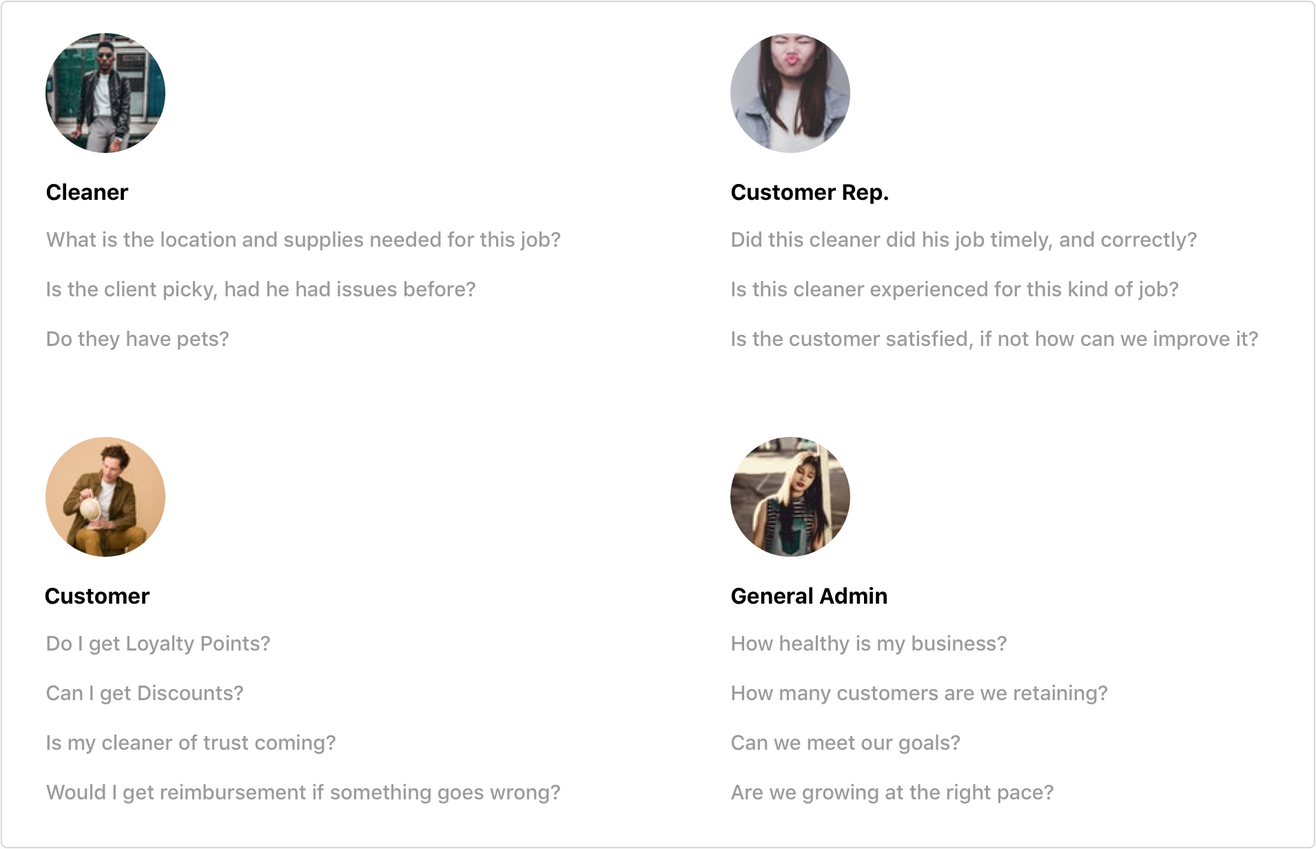
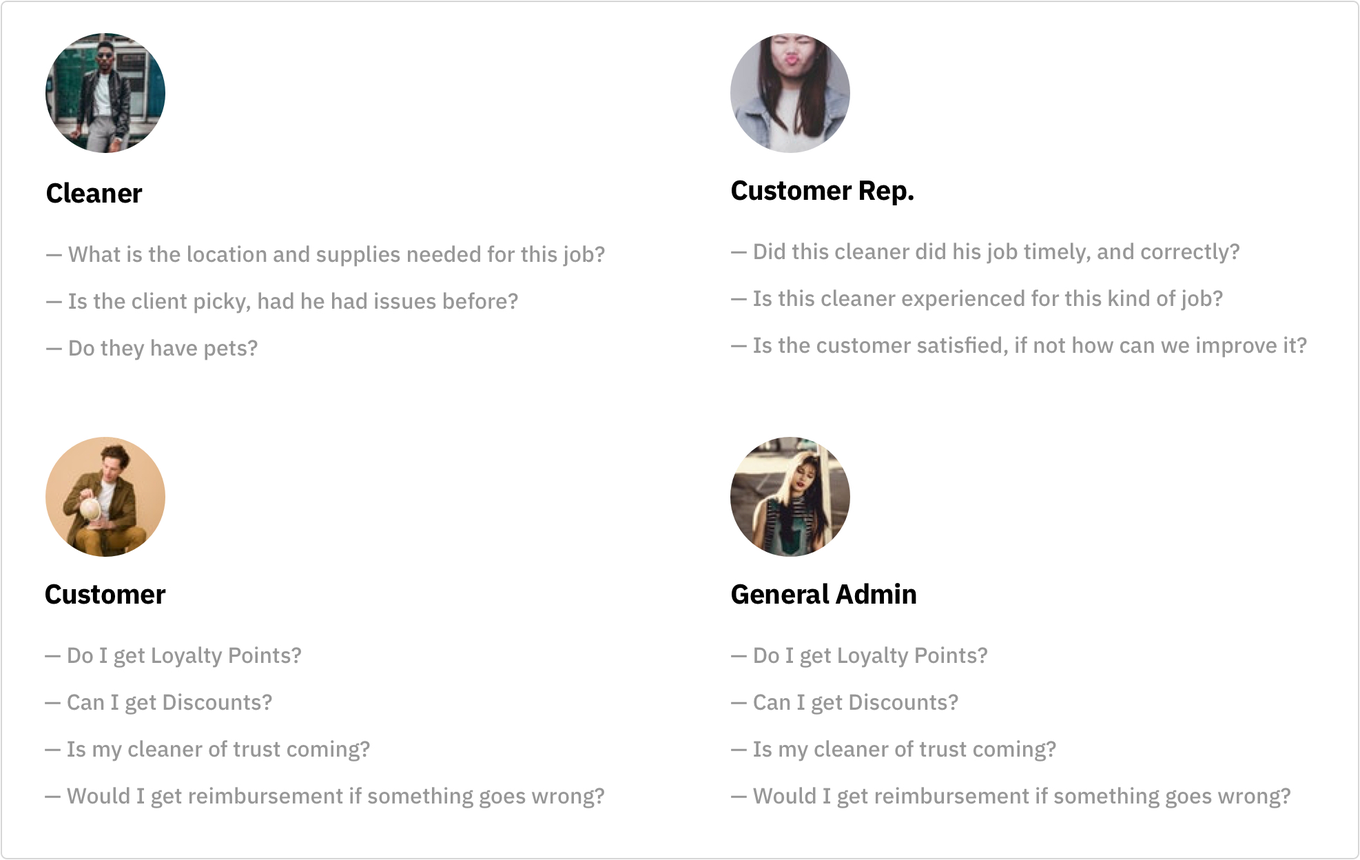
asdas

diff --git a/_includes/cleancrm.html b/_includes/cleancrm.html
@@ -1,2 +1,2 @@
 <section role="main" class="margin-bottom-75"><div class="container"><div class="row"><div class="col-md-8 col-md-offset-3 col-sx-12"><div class="intro-text"><h1 class="work-sans title intro-title color-0">Clean CRM</h1></div><p>Management product for cleaning service companies. Smoothly administrating all the customers, bookings, quotes and employees on a cleaning service company.</p></div></div></div></section><article role="article" class="no-margin-bottom margin-top-50"><div class="container"><div class="row"><div class="col-xs-12 col-md-12"><img src="/img/work/cleancrm/crm-header.jpg" alt="intro crm" class="no-margin-bottom"/></div></div></div></article><article role="article" class="no-margin-top"><hr/><div class="container margin-top-25"><div class="row"><div class="col-md-3"><div class="row"><p></p><div class="col-xs-3"><h2 class="section-description muted no-margin">Name</h2></div><div class="col-xs-6"><h2 class="section-description no-margin">Clean CRM</h2></div></div><div class="row"><div class="col-xs-3"><h2 class="section-description muted no-margin">Year</h2></div><div class="col-xs-6"><h2 class="section-description no-margin">2016 — 2017</h2></div></div><div class="row"><div class="col-xs-3"><h2 class="section-description muted no-margin">Role</h2></div><div class="col-xs-6"><h2 class="section-description no-margin">Designer</h2></div></div><div class="row"><div class="col-xs-3"><h2 class="section-description muted no-margin">Time</h2></div><div class="col-xs-6"><h2 class="section-description no-margin">8 weeks</h2></div></div></div><div class="col-md-8"><p> </p><p>I partnered up with an NYC Cleaning Service company wanting to automate their services. They had a non-functioning MVP and a clear goal before reaching out. </p><p> The application that they were using previously failed to adapt to the increasingly complex demands of new features to support a growing cleaning service company. </p></div></div></div></article>
-<article role="article" class="no-margin margin-top-25"><hr/><div class="container margin-top-25"><div class="row"><div class="col-md-3"><h2 class="section-title margin-bottom-25">COMPETITIVE RESEARCH</h2></div><div class="col-md-8"><p></p><p>It is essential to look into other players on the market and understand the products that we are going to compete. We have two main categories in the direct competition, software companies who offer the service and other traditional cleaning service companies.</p><p>In the end, we agreed on creating a Saas Product to spread the business goals offering a CRM tool for small-medium size cleaning service companies.</p><h2></h2><p>Metrics for the competitive analysis:</p><p>• User goals and product goals</p><p>• Areas and locations of service</p><p>• Customer retention & opinions</p><p>• Marketing investment</p><div class="row"><div class="col-xs-6 col-md-3 center"><img src="/img/work/cleancrm/logo-1.jpg" alt="competitors"/></div><div class="col-xs-6 col-md-3 center"><img src="/img/work/cleancrm/logo-2.jpg" alt="competitors"/></div><div class="col-xs-6 col-md-3"><img src="/img/work/cleancrm/logo-3.jpg" alt="competitors"/></div><div class="col-xs-6 col-md-3"><img src="/img/work/cleancrm/logo-4.jpg" alt="competitors"/></div></div></div><div class="row"><div class="col-md-9 col-md-offset-3 col-sx-12"><img src="/img/work/cleancrm/gmaps-competition2.jpg" alt="competitors" class="shadow-1"/></div></div></div></div></article><article role="article" class="margin-top-25"><hr/><div class="container margin-top-25"><div class="row"><div class="col-md-3"><h2 class="section-title">Persona Development</h2></div><div class="col-md-8"><p></p><p>To test our ideas and hypothesis, we asked employees what their pain points were. Testing helped understand possible scenarios and to see which functions could be useful.</p><p>We also created profiles of the customers and their needs and goals, even though they are not using the application. Having a perspective of their goals is what is going to drive us to make a useful product.</p><p class="margin-bottom-75"></p><div class="row margin-top-75"><div class="col-xs-12 col-md-9 margin-bottom-25"><img src="/img/work/cleancrm/pp1.jpg" alt="person cleaner" class="mw-15 no-margin"/><h3 class="f1 lh-1 work-sans">Cleaner</h3><p class="f1 lh-1 color-1">— What is the location and supplies needed?  </p><p class="f1 lh-1 color-1">— Is the client picky, had he had issues before?</p><p class="f1 lh-1 color-1">—   Do they have pets?</p><h3> </h3></div><div class="col-xs-12 col-md-9 margin-bottom-25"><img src="/img/work/cleancrm/pp2.jpg" alt="person cleaner" class="mw-15 no-margin"/><h3 class="f1 lh-1 work-sans">Customer Rep.</h3><p class="f1 lh-1 color-1">— Did this cleaner did his job timely? </p><p class="f1 lh-1 color-1">— Is this cleaner experienced for this kind of job?</p><p class="f1 lh-1 color-1">— Is the customer satisfied, if not how can we improve it?</p><h3></h3></div><div class="col-xs-12 col-md-9 margin-bottom-25"><img src="/img/work/cleancrm/pp3.jpg" alt="person cleaner" class="mw-15 no-margin"/><h3 class="f1 lh-1 work-sans">Customer</h3><p class="f1 lh-1 color-1">— Do I get Loyalty Points?  </p><p class="f1 lh-1 color-1">— Is my cleaner of trust coming?</p><p class="f1 lh-1 color-1">—  Would I get reimbursement if something goes wrong?</p><h3></h3></div><div class="col-xs-12 col-md-9 margin-bottom-25"><img src="/img/work/cleancrm/pp4.jpg" alt="person cleaner" class="mw-15 no-margin"/><h3 class="f1 lh-1 work-sans">General Admin</h3><p class="f1 lh-1 color-1">— How healthy is my business?</p><p class="f1 lh-1 color-1">—   How many customers are we retaining?</p><p class="f1 lh-1 color-1">—   Can we meet our goals?</p><h3></h3></div></div><div class="row margin-top-75"><div class="col-xs-12 col-md-12 margin-bottom-25"><img src="/img/work/cleancrm/persona-2.jpg" alt="person cleaner" class="no-margin"/></div></div></div></div></div></article><article role="article" class="margin-top-25"><hr/><div class="container margin-top-25"><div class="row"><div class="col-md-3"><h2 class="section-title">User Task Flow</h2></div><div class="col-md-9"><p></p><p>Task flows helped us to think through the design before a feature is actually developed. It helped us to interject the user into the flow model of the application to determine if it matches conceptually with what we need.</p><div class="margin-top-25"><div class="row"><div class="col-xs-12 col-md-12"><img src="/img/work/cleancrm/user-flow-separated.jpg" alt="user task flow"/></div></div></div></div></div></div></article><article role="article"><hr/><div class="container margin-top-25"><div class="row"><div class="col-md-3"><h2 class="section-title">SCOPE</h2></div><div class="col-md-9"><p></p><p>As a small company, time and budget require fast turnaround and control. I worked closely with developers from different parts of the world to bring the platform to life. For that, we needed to manage time and constraints, Manage time and scope is harder than it sounds. We kept spreadsheets of flows and features and Trello boards of the needs and sprints of work.</p><p>List of screens from screen map:</p><p>• Specify features for each screen</p><p>• Assign priorities Must-have (First release) Nice to have (Next Release)</p><p>• Fill in development time estimates</p><div class="margin-top-25"><div class="row"><div class="col-xs-12 col-md-12"><img src="/img/work/cleancrm/scope-2.jpg" alt="Scope spreadsheet" class="shadow-1"/></div></div></div></div></div></div></article><article role="article" class="margin-top-25"><hr/><div class="container margin-top-25"><div class="row"><div class="col-md-3"><h2 class="section-title">SCREEN MAPPING</h2></div><div class="col-md-9"><p></p><p>Having a whole view of all screens and screen states helps to manage and have everything tidy and organized for next iterations. For that, I use tools like MindNode since is faster and everyone can contribute.</p><p>We tried to keep this document alive by keeping it in sync with the Scope of the application and the number of features they represent.</p><div class="margin-top-25"><div class="row"><div class="col-xs-12 col-md-12"><img src="/img/work/cleancrm/screen-map-2.jpg" alt="screen maps"/></div></div></div></div></div></div></article><article role="article"><hr/><div class="container margin-top-25"><div class="row"><div class="col-md-3"><h2 class="section-title">GRID SYSTEM</h2></div><div class="col-md-9"><p></p><p>A consistent grid helps designers layout UI quickly and consistently and consequently developers to create components the same way. I used an 8pt soft grid based on Android Material, scaling spaces and components from 4, 8, 16, 24 and alike. Also using a column and height grid to keep a visual rhythm into the application.</p><div class="margin-top-25"><div class="row"><div class="col-xs-12 col-md-8"> <svg xmlns="http://www.w3.org/2000/svg" width="393" height="229" viewbox="0 0 393 229"><g fill="none" fill-rule="evenodd" transform="translate(0 -1)"></g><g fill="#FF9797" transform="translate(0 2)"><rect width="272.454" height="85" x=".546" fill-opacity=".495" opacity=".2"></rect><rect width="272.454" height="85" x=".546" fill-opacity=".495" opacity=".2"></rect><rect width="14.742" height="85" fill-opacity=".75"></rect><rect width="14.742" height="85" x="23.478" fill-opacity=".495"></rect><rect width="14.742" height="85" x="46.956" fill-opacity=".495"></rect><rect width="14.742" height="85" x="70.434" fill-opacity=".495"></rect><rect width="14.742" height="85" x="93.912" fill-opacity=".495"></rect><rect width="14.742" height="85" x="117.39" fill-opacity=".495"></rect><rect width="14.742" height="85" x="140.868" fill-opacity=".495"></rect><rect width="14.742" height="85" x="164.346" fill-opacity=".495"></rect><rect width="14.742" height="85" x="187.824" fill-opacity=".495"></rect><rect width="14.742" height="85" x="211.302" fill-opacity=".495"></rect><rect width="14.742" height="85" x="234.78" fill-opacity=".495"></rect><rect width="14.742" height="85" x="258.258" fill-opacity=".75"></rect></g><g fill="#FF9797" transform="translate(0 115)"><rect width="198.602" height="52" x=".398" fill-opacity=".495" opacity=".2"></rect><rect width="198.602" height="52" x=".398" fill-opacity=".495" opacity=".2"></rect><rect width="10.746" height="52" fill-opacity=".75"></rect><rect width="10.746" height="52" x="17.114" fill-opacity=".495"></rect><rect width="10.746" height="52" x="34.228" fill-opacity=".495"></rect><rect width="10.746" height="52" x="51.342" fill-opacity=".495"></rect><rect width="10.746" height="52" x="68.456" fill-opacity=".495"></rect><rect width="10.746" height="52" x="85.57" fill-opacity=".495"></rect><rect width="10.746" height="52" x="102.684" fill-opacity=".495"></rect><rect width="10.746" height="52" x="119.798" fill-opacity=".495"></rect><rect width="10.746" height="52" x="136.912" fill-opacity=".495"></rect><rect width="10.746" height="52" x="154.026" fill-opacity=".495"></rect><rect width="10.746" height="52" x="171.14" fill-opacity=".495"></rect><rect width="10.746" height="52" x="188.254" fill-opacity=".75"></rect></g><g font-size="7.84" transform="translate(290)"><g transform="translate(1 61.57)"><text fill="#15101C" fill-opacity=".5" font-family="HelveticaNeue, Helvetica Neue"><tspan x="46.439" y="7.56">24px</tspan></text><text fill="#475066" font-family="HelveticaNeue-Medium, Helvetica Neue" font-weight="400" letter-spacing=".493"><tspan x=".471" y="8">GUTTER</tspan><tspan x="34.796" y="8">:</tspan></text></g><g transform="translate(0 46.177)"><text fill="#15101C" fill-opacity=".5" font-family="HelveticaNeue, Helvetica Neue"><tspan x="85.519" y="7">70px</tspan></text><text fill="#475066" font-family="HelveticaNeue-Medium, Helvetica Neue" font-weight="400" letter-spacing=".493"><tspan x=".914" y="8">COLUMNS WIDTH</tspan><tspan x="74.541" y="8">:</tspan></text></g><g transform="translate(1 30.785)"><text fill="#15101C" fill-opacity=".5" font-family="HelveticaNeue, Helvetica Neue"><tspan x="54.727" y="7.56">12</tspan></text><text fill="#475066" font-family="HelveticaNeue-Medium, Helvetica Neue" font-weight="400" letter-spacing=".493"><tspan x=".343" y="8">COLUMNS</tspan><tspan x="43.283" y="8">:</tspan></text></g><g transform="translate(1)"><text fill="#475066" font-family="HelveticaNeue-Medium, Helvetica Neue" font-weight="400" letter-spacing=".493"><tspan x=".143" y="8">TOTAL WIDTH</tspan><tspan x="57.559" y="8">:</tspan></text><text fill="#15101C" fill-opacity=".5" font-family="HelveticaNeue, Helvetica Neue"><tspan x="68.614" y="7">1920px</tspan></text></g><g transform="translate(1 15.392)"><text fill="#15101C" fill-opacity=".5" font-family="HelveticaNeue, Helvetica Neue"><tspan x="44.807" y="7">40px</tspan></text><text fill="#475066" font-family="HelveticaNeue-Medium, Helvetica Neue" font-weight="400" letter-spacing=".493"><tspan x=".486" y="8">OFFSET</tspan><tspan x="33.368" y="8">:</tspan></text></g></g><g font-size="7.84" transform="translate(216 114)"><g transform="translate(1 40.078)"><text fill="#15101C" fill-opacity=".5" font-family="HelveticaNeue, Helvetica Neue"><tspan x="46.496" y="7.59">5px</tspan></text><text fill="#475066" font-family="HelveticaNeue-Medium, Helvetica Neue" font-weight="400" letter-spacing=".493"><tspan x=".471" y="8.03">GUTTER</tspan><tspan x="34.796" y="8.03">:</tspan></text></g><g transform="translate(0 26.902)"><text fill="#15101C" fill-opacity=".5" font-family="HelveticaNeue, Helvetica Neue"><tspan x="85.519" y="7.027">50px</tspan></text><text fill="#475066" font-family="HelveticaNeue-Medium, Helvetica Neue" font-weight="400" letter-spacing=".493"><tspan x=".914" y="8.03">COLUMNS WIDTH</tspan><tspan x="74.541" y="8.03">:</tspan></text></g><g transform="translate(1)"><text fill="#475066" font-family="HelveticaNeue-Medium, Helvetica Neue" font-weight="400" letter-spacing=".493"><tspan x=".143" y="8.03">TOTAL WIDTH</tspan><tspan x="57.559" y="8.03">:</tspan></text><text fill="#15101C" fill-opacity=".5" font-family="HelveticaNeue, Helvetica Neue"><tspan x="68.686" y="7.027">768px</tspan></text></g><g transform="translate(1 13.176)"><text fill="#15101C" fill-opacity=".5" font-family="HelveticaNeue, Helvetica Neue"><tspan x="44.864" y="7.027">0px</tspan></text><text fill="#475066" font-family="HelveticaNeue-Medium, Helvetica Neue" font-weight="400" letter-spacing=".493"><tspan x=".486" y="8.03">OFFSET</tspan><tspan x="33.368" y="8.03">:</tspan></text></g></g><g transform="translate(0 194)"><g fill="#FF9797" transform="translate(0 1.635)"><rect width="127.167" height="34.326" x=".255" fill-opacity=".495" opacity=".2"></rect><rect width="127.167" height="34.326" x=".255" fill-opacity=".495" opacity=".2"></rect><rect width="6.881" height="34.326" fill-opacity=".75"></rect><rect width="6.881" height="34.326" x="10.958" fill-opacity=".495"></rect><rect width="6.881" height="34.326" x="21.917" fill-opacity=".495"></rect><rect width="6.881" height="34.326" x="32.875" fill-opacity=".495"></rect><rect width="6.881" height="34.326" x="43.833" fill-opacity=".495"></rect><rect width="6.881" height="34.326" x="54.791" fill-opacity=".495"></rect><rect width="6.881" height="34.326" x="65.75" fill-opacity=".495"></rect><rect width="6.881" height="34.326" x="76.708" fill-opacity=".495"></rect><rect width="6.881" height="34.326" x="87.666" fill-opacity=".495"></rect><rect width="6.881" height="34.326" x="98.625" fill-opacity=".495"></rect><rect width="6.881" height="34.326" x="109.583" fill-opacity=".495"></rect><rect width="6.881" height="34.326" x="120.541" fill-opacity=".75"></rect></g><g font-size="7.84" transform="translate(145.562)"><g transform="translate(0 13.485)"><text fill="#15101C" fill-opacity=".5" font-family="HelveticaNeue, Helvetica Neue"><tspan x="85.008" y="7">22px</tspan></text><text fill="#475066" font-family="HelveticaNeue-Medium, Helvetica Neue" font-weight="400" letter-spacing=".493"><tspan x=".109" y="8">COLUMNS WIDTH</tspan><tspan x="73.736" y="8">:</tspan></text></g><g><text fill="#475066" font-family="HelveticaNeue-Medium, Helvetica Neue" font-weight="400" letter-spacing=".493"><tspan x=".297" y="8">TOTAL WIDTH</tspan><tspan x="57.713" y="8">:</tspan></text><text fill="#15101C" fill-opacity=".5" font-family="HelveticaNeue, Helvetica Neue"><tspan x="69.102" y="7">320px</tspan></text></g></g></g></svg></div><div class="col-xs-12 col-md-6"><img src="/img/work/cleancrm/guidelines.jpg" alt="grid interface"/></div><div class="col-xs-12 col-md-6"><img src="/img/work/cleancrm/screens-1.jpg" alt="screen sizes responsive"/></div></div></div></div></div></div></article><article role="article" class="margin-top-25"><hr/><div class="container margin-top-25"><div class="row"><div class="col-md-3"><h2 class="section-title">INTERACTIONS</h2></div><div class="col-md-9"><p></p><p>Managing all interactions across the application to create a seamless experience will make the product stand out.</p><div class="margin-top-25"><div class="row"><div class="col-xs-12 col-md-12"><img src="/img/work/cleancrm/modal-warning.jpg" alt="modal-warning"/></div><div class="col-xs-12 col-md-12"><img src="/img/work/cleancrm/edit-information.jpg" alt="modal-warning"/></div><div class="col-xs-12 col-md-12"><img src="/img/work/cleancrm/modals-2.jpg" alt="Modals"/></div></div></div></div></div></div></article><article role="article" class="margin-top-25"><hr/><div class="container margin-top-25"><div class="row"><div class="col-md-3"><h2 class="section-title">DESIGN LANGUAGE</h2></div><div class="col-md-9"><p></p><p>I helped introducing a new design lenguage to make their product easier to navigate and find information. I created a UI Library and design system to make it easier for designers and developers to continue the work after I leave so they can continue working on the platform without having to worry about getting off track.</p><div class="row"><div class="col-xs-12 col-md-12"><img src="/img/work/cleancrm/component-3.jpg" alt="component"/></div></div></div></div></div></article><article role="article" class="margin-top-25"><hr/><div class="container margin-top-25"><div class="row"><div class="col-md-3"><h2 class="section-title">File structure</h2></div><div class="col-md-9"><p></p><p>Getting proper organization on your files and naming conventions help you to keep sanity on your projects.</p></div></div><div class="row"><div class="col-xs-12 col-md-12"><img src="/img/work/cleancrm/sketch-screenshot.jpg" alt="component" class="shadow-1"/></div></div></div></article><article role="article"><hr/><div class="container margin-top-25"><div class="row"><div class="col-md-3"><h2 class="section-title">INTERFACE</h2></div><div class="col-md-9"><p></p><p>The platform helps keeping track of potential and current customers, everything while giving them feedback on the health of the business at a glance.</p></div></div><div class="row"><div class="col-xs-12 col-md-7"><img src="/img/work/cleancrm/1-2-4_Dashboard-Home-Recurring-Remove-Payment.jpg" alt="Recurring payments Dash" class="shadow-1"/></div><div class="col-xs-12 col-md-5"><img src="/img/work/cleancrm/3-3-1_Notes_Booking-Upcoming-Points.jpg" alt="Booking_Notes" class="shadow-1"/></div><div class="col-xs-12 col-md-5"><img src="/img/work/cleancrm/4-2-4_Quotes-Expanded-Notification_Box.jpg" alt="Quotes_Notes" class="shadow-1"/></div></div></div></article><article role="article"><hr/><div class="container margin-top-25"><div class="row"><div class="col-md-3"><h2 class="section-title">RESULTS</h2></div><div class="col-md-9"><p></p><p>The client was really happy and we were dog fooding a beta with plans to transform the product into a Sass company. </p><p>There are three things I think will have the most impact on my ongoing career and process:</p><h2></h2><p class="bold">Planning and management</p><p>I learned a lot about how to manage design sprints and the expectations at the end of them.  </p><p class="bold">Exploring from early on the project</p><p>Every project is different, and the process most adjusts to resources, timeline, and constraints.</p><p class="bold">Deep research and understanding of the business</p><p>Getting to understand the business pains from top to bottom is crucial if you plan to offer solutions to that. Get and clean for a few days if that's necessary.</p></div></div></div></article><section role="main" id="work-section"><div class="container"><div class="row"><div class="col-md-6 col-xs-8"><h2 class="section-title">SEE MORE PROJECTS</h2></div></div></div><hr/><div class="container"><div class="row"><div class="col-xs-6 col-sm-6 col-md-3 col-md-offset-3 work"><a href="{{site.baseurl}}/work/condominium" class="no-link"><div class="project-image"><img src="{{site.baseurl}}/img/preview/work-preview/work_preview-condominium.jpg" alt="Condominium" class="project-photo"/></div><div class="tags"><div class="tag">Frontend</div><div class="tag">Product Design</div></div><div class="project-text"><p class="no-link">Designed Lead the UI development of a new application for condominium managers and tenants.</p><a href="{{site.baseurl}}/work/condominium" class="project-description color-6 text-underline-1 color-3">See case study</a></div></a></div><div class="col-xs-6 col-sm-6 col-md-3 work"><a href="https://www.starklabs.io/" target="_blank" class="no-link"><div class="project-image"><img src="{{site.baseurl}}/img/preview/work-preview/work_preview-stark.jpg" alt="stark" class="project-photo"/></div><div class="tags"><div class="tag">Illustration</div><div class="tag">Design</div><div class="tag">Dev.</div></div><div class="project-text"><p class="no-link">Developed, illustrated and designed the marketing site for a new Chatbot/Ai development agency.</p><a href="https://www.starklabs.io/" class="project-description color-6 text-underline-1 color-3">Visit site</a></div></a></div><div class="col-xs-6 col-sm-6 col-md-3 work"><a href="{{site.baseurl}}/work/webpack" class="no-link"><div class="project-image"><img src="{{site.baseurl}}/img/preview/work-preview/work_preview-webpack.jpg" alt="webpack" class="project-photo"/></div><div class="tags"><div class="tag">Design</div><div class="tag">Branding</div></div><div class="project-text"><p class="no-link">Designing the marketing and brand of an Open Source plugin for the most popular front-end bundle.</p><a href="{{site.baseurl}}/work/webpack" class="project-description color-6 text-underline-1 color-3">See case study</a></div></a></div></div></div></section>
+<article role="article" class="no-margin margin-top-25"><hr/><div class="container margin-top-25"><div class="row"><div class="col-md-3"><h2 class="section-title margin-bottom-25">COMPETITIVE RESEARCH</h2></div><div class="col-md-8"><p></p><p>It is essential to look into other players on the market and understand the products that we are going to compete. We have two main categories in the direct competition, software companies who offer the service and other traditional cleaning service companies.</p><p>In the end, we agreed on creating a Saas Product to spread the business goals offering a CRM tool for small-medium size cleaning service companies.</p><h2></h2><p>Metrics for the competitive analysis:</p><p>• User goals and product goals</p><p>• Areas and locations of service</p><p>• Customer retention & opinions</p><p>• Marketing investment</p><div class="row"><div class="col-xs-6 col-md-3 center"><img src="/img/work/cleancrm/logo-1.jpg" alt="competitors"/></div><div class="col-xs-6 col-md-3 center"><img src="/img/work/cleancrm/logo-2.jpg" alt="competitors"/></div><div class="col-xs-6 col-md-3"><img src="/img/work/cleancrm/logo-3.jpg" alt="competitors"/></div><div class="col-xs-6 col-md-3"><img src="/img/work/cleancrm/logo-4.jpg" alt="competitors"/></div></div></div><div class="row"><div class="col-md-9 col-md-offset-3 col-sx-12"><img src="/img/work/cleancrm/gmaps-competition2.jpg" alt="competitors" class="shadow-1"/></div></div></div></div></article><article role="article" class="margin-top-25"><hr/><div class="container margin-top-25"><div class="row"><div class="col-md-3"><h2 class="section-title">Persona Development</h2></div><div class="col-md-8"><p></p><p>To test our ideas and hypothesis, we asked employees what their pain points were. Testing helped understand possible scenarios and to see which functions could be useful.</p><p>We also created profiles of the customers and their needs and goals, even though they are not using the application. Having a perspective of their goals is what is going to drive us to make a useful product.</p><p class="margin-bottom-75"></p><div class="row margin-top-75"><div class="col-xs-12 col-md-12 margin-bottom-25"><img src="/img/work/cleancrm/persona-2.jpg" alt="person cleaner" class="no-margin"/></div></div></div></div></div></article><article role="article" class="margin-top-25"><hr/><div class="container margin-top-25"><div class="row"><div class="col-md-3"><h2 class="section-title">User Task Flow</h2></div><div class="col-md-9"><p></p><p>Task flows helped us to think through the design before a feature is actually developed. It helped us to interject the user into the flow model of the application to determine if it matches conceptually with what we need.</p><div class="margin-top-25"><div class="row"><div class="col-xs-12 col-md-12"><img src="/img/work/cleancrm/user-flow-separated-2.jpg" alt="user task flow"/></div></div></div></div></div></div></article><article role="article"><hr/><div class="container margin-top-25"><div class="row"><div class="col-md-3"><h2 class="section-title">SCOPE</h2></div><div class="col-md-9"><p></p><p>As a small company, time and budget require fast turnaround and control. I worked closely with developers from different parts of the world to bring the platform to life. For that, we needed to manage time and constraints, Manage time and scope is harder than it sounds. We kept spreadsheets of flows and features and Trello boards of the needs and sprints of work.</p><p>List of screens from screen map:</p><p>• Specify features for each screen</p><p>• Assign priorities Must-have (First release) Nice to have (Next Release)</p><p>• Fill in development time estimates</p><div class="margin-top-25"><div class="row"><div class="col-xs-12 col-md-12"><img src="/img/work/cleancrm/scope-2.jpg" alt="Scope spreadsheet" class="shadow-1"/></div></div></div></div></div></div></article><article role="article" class="margin-top-25"><hr/><div class="container margin-top-25"><div class="row"><div class="col-md-3"><h2 class="section-title">SCREEN MAPPING</h2></div><div class="col-md-9"><p></p><p>Having a whole view of all screens and screen states helps to manage and have everything tidy and organized for next iterations. For that, I use tools like MindNode since is faster and everyone can contribute.</p><p>We tried to keep this document alive by keeping it in sync with the Scope of the application and the number of features they represent.</p><div class="margin-top-25"><div class="row"><div class="col-xs-12 col-md-12"><img src="/img/work/cleancrm/screen-map-2.jpg" alt="screen maps"/></div></div></div></div></div></div></article><article role="article"><hr/><div class="container margin-top-25"><div class="row"><div class="col-md-3"><h2 class="section-title">GRID SYSTEM</h2></div><div class="col-md-9"><p></p><p>A consistent grid helps designers layout UI quickly and consistently and consequently developers to create components the same way. I used an 8pt soft grid based on Android Material, scaling spaces and components from 4, 8, 16, 24 and alike. Also using a column and height grid to keep a visual rhythm into the application.</p><div class="margin-top-25"><div class="row"><div class="col-xs-12 col-md-8"> <svg xmlns="http://www.w3.org/2000/svg" width="393" height="229" viewbox="0 0 393 229"><g fill="none" fill-rule="evenodd" transform="translate(0 -1)"></g><g fill="#FF9797" transform="translate(0 2)"><rect width="272.454" height="85" x=".546" fill-opacity=".495" opacity=".2"></rect><rect width="272.454" height="85" x=".546" fill-opacity=".495" opacity=".2"></rect><rect width="14.742" height="85" fill-opacity=".75"></rect><rect width="14.742" height="85" x="23.478" fill-opacity=".495"></rect><rect width="14.742" height="85" x="46.956" fill-opacity=".495"></rect><rect width="14.742" height="85" x="70.434" fill-opacity=".495"></rect><rect width="14.742" height="85" x="93.912" fill-opacity=".495"></rect><rect width="14.742" height="85" x="117.39" fill-opacity=".495"></rect><rect width="14.742" height="85" x="140.868" fill-opacity=".495"></rect><rect width="14.742" height="85" x="164.346" fill-opacity=".495"></rect><rect width="14.742" height="85" x="187.824" fill-opacity=".495"></rect><rect width="14.742" height="85" x="211.302" fill-opacity=".495"></rect><rect width="14.742" height="85" x="234.78" fill-opacity=".495"></rect><rect width="14.742" height="85" x="258.258" fill-opacity=".75"></rect></g><g fill="#FF9797" transform="translate(0 115)"><rect width="198.602" height="52" x=".398" fill-opacity=".495" opacity=".2"></rect><rect width="198.602" height="52" x=".398" fill-opacity=".495" opacity=".2"></rect><rect width="10.746" height="52" fill-opacity=".75"></rect><rect width="10.746" height="52" x="17.114" fill-opacity=".495"></rect><rect width="10.746" height="52" x="34.228" fill-opacity=".495"></rect><rect width="10.746" height="52" x="51.342" fill-opacity=".495"></rect><rect width="10.746" height="52" x="68.456" fill-opacity=".495"></rect><rect width="10.746" height="52" x="85.57" fill-opacity=".495"></rect><rect width="10.746" height="52" x="102.684" fill-opacity=".495"></rect><rect width="10.746" height="52" x="119.798" fill-opacity=".495"></rect><rect width="10.746" height="52" x="136.912" fill-opacity=".495"></rect><rect width="10.746" height="52" x="154.026" fill-opacity=".495"></rect><rect width="10.746" height="52" x="171.14" fill-opacity=".495"></rect><rect width="10.746" height="52" x="188.254" fill-opacity=".75"></rect></g><g font-size="7.84" transform="translate(290)"><g transform="translate(1 61.57)"><text fill="#15101C" fill-opacity=".5" font-family="HelveticaNeue, Helvetica Neue"><tspan x="46.439" y="7.56">24px</tspan></text><text fill="#475066" font-family="HelveticaNeue-Medium, Helvetica Neue" font-weight="400" letter-spacing=".493"><tspan x=".471" y="8">GUTTER</tspan><tspan x="34.796" y="8">:</tspan></text></g><g transform="translate(0 46.177)"><text fill="#15101C" fill-opacity=".5" font-family="HelveticaNeue, Helvetica Neue"><tspan x="85.519" y="7">70px</tspan></text><text fill="#475066" font-family="HelveticaNeue-Medium, Helvetica Neue" font-weight="400" letter-spacing=".493"><tspan x=".914" y="8">COLUMNS WIDTH</tspan><tspan x="74.541" y="8">:</tspan></text></g><g transform="translate(1 30.785)"><text fill="#15101C" fill-opacity=".5" font-family="HelveticaNeue, Helvetica Neue"><tspan x="54.727" y="7.56">12</tspan></text><text fill="#475066" font-family="HelveticaNeue-Medium, Helvetica Neue" font-weight="400" letter-spacing=".493"><tspan x=".343" y="8">COLUMNS</tspan><tspan x="43.283" y="8">:</tspan></text></g><g transform="translate(1)"><text fill="#475066" font-family="HelveticaNeue-Medium, Helvetica Neue" font-weight="400" letter-spacing=".493"><tspan x=".143" y="8">TOTAL WIDTH</tspan><tspan x="57.559" y="8">:</tspan></text><text fill="#15101C" fill-opacity=".5" font-family="HelveticaNeue, Helvetica Neue"><tspan x="68.614" y="7">1920px</tspan></text></g><g transform="translate(1 15.392)"><text fill="#15101C" fill-opacity=".5" font-family="HelveticaNeue, Helvetica Neue"><tspan x="44.807" y="7">40px</tspan></text><text fill="#475066" font-family="HelveticaNeue-Medium, Helvetica Neue" font-weight="400" letter-spacing=".493"><tspan x=".486" y="8">OFFSET</tspan><tspan x="33.368" y="8">:</tspan></text></g></g><g font-size="7.84" transform="translate(216 114)"><g transform="translate(1 40.078)"><text fill="#15101C" fill-opacity=".5" font-family="HelveticaNeue, Helvetica Neue"><tspan x="46.496" y="7.59">5px</tspan></text><text fill="#475066" font-family="HelveticaNeue-Medium, Helvetica Neue" font-weight="400" letter-spacing=".493"><tspan x=".471" y="8.03">GUTTER</tspan><tspan x="34.796" y="8.03">:</tspan></text></g><g transform="translate(0 26.902)"><text fill="#15101C" fill-opacity=".5" font-family="HelveticaNeue, Helvetica Neue"><tspan x="85.519" y="7.027">50px</tspan></text><text fill="#475066" font-family="HelveticaNeue-Medium, Helvetica Neue" font-weight="400" letter-spacing=".493"><tspan x=".914" y="8.03">COLUMNS WIDTH</tspan><tspan x="74.541" y="8.03">:</tspan></text></g><g transform="translate(1)"><text fill="#475066" font-family="HelveticaNeue-Medium, Helvetica Neue" font-weight="400" letter-spacing=".493"><tspan x=".143" y="8.03">TOTAL WIDTH</tspan><tspan x="57.559" y="8.03">:</tspan></text><text fill="#15101C" fill-opacity=".5" font-family="HelveticaNeue, Helvetica Neue"><tspan x="68.686" y="7.027">768px</tspan></text></g><g transform="translate(1 13.176)"><text fill="#15101C" fill-opacity=".5" font-family="HelveticaNeue, Helvetica Neue"><tspan x="44.864" y="7.027">0px</tspan></text><text fill="#475066" font-family="HelveticaNeue-Medium, Helvetica Neue" font-weight="400" letter-spacing=".493"><tspan x=".486" y="8.03">OFFSET</tspan><tspan x="33.368" y="8.03">:</tspan></text></g></g><g transform="translate(0 194)"><g fill="#FF9797" transform="translate(0 1.635)"><rect width="127.167" height="34.326" x=".255" fill-opacity=".495" opacity=".2"></rect><rect width="127.167" height="34.326" x=".255" fill-opacity=".495" opacity=".2"></rect><rect width="6.881" height="34.326" fill-opacity=".75"></rect><rect width="6.881" height="34.326" x="10.958" fill-opacity=".495"></rect><rect width="6.881" height="34.326" x="21.917" fill-opacity=".495"></rect><rect width="6.881" height="34.326" x="32.875" fill-opacity=".495"></rect><rect width="6.881" height="34.326" x="43.833" fill-opacity=".495"></rect><rect width="6.881" height="34.326" x="54.791" fill-opacity=".495"></rect><rect width="6.881" height="34.326" x="65.75" fill-opacity=".495"></rect><rect width="6.881" height="34.326" x="76.708" fill-opacity=".495"></rect><rect width="6.881" height="34.326" x="87.666" fill-opacity=".495"></rect><rect width="6.881" height="34.326" x="98.625" fill-opacity=".495"></rect><rect width="6.881" height="34.326" x="109.583" fill-opacity=".495"></rect><rect width="6.881" height="34.326" x="120.541" fill-opacity=".75"></rect></g><g font-size="7.84" transform="translate(145.562)"><g transform="translate(0 13.485)"><text fill="#15101C" fill-opacity=".5" font-family="HelveticaNeue, Helvetica Neue"><tspan x="85.008" y="7">22px</tspan></text><text fill="#475066" font-family="HelveticaNeue-Medium, Helvetica Neue" font-weight="400" letter-spacing=".493"><tspan x=".109" y="8">COLUMNS WIDTH</tspan><tspan x="73.736" y="8">:</tspan></text></g><g><text fill="#475066" font-family="HelveticaNeue-Medium, Helvetica Neue" font-weight="400" letter-spacing=".493"><tspan x=".297" y="8">TOTAL WIDTH</tspan><tspan x="57.713" y="8">:</tspan></text><text fill="#15101C" fill-opacity=".5" font-family="HelveticaNeue, Helvetica Neue"><tspan x="69.102" y="7">320px</tspan></text></g></g></g></svg></div><div class="col-xs-12 col-md-6"><img src="/img/work/cleancrm/guidelines.jpg" alt="grid interface"/></div><div class="col-xs-12 col-md-6"><img src="/img/work/cleancrm/screens-1.jpg" alt="screen sizes responsive"/></div></div></div></div></div></div></article><article role="article" class="margin-top-25"><hr/><div class="container margin-top-25"><div class="row"><div class="col-md-3"><h2 class="section-title">INTERACTIONS</h2></div><div class="col-md-9"><p></p><p>Managing all interactions across the application to create a seamless experience will make the product stand out.</p><div class="margin-top-25"><div class="row"><div class="col-xs-12 col-md-12"><img src="/img/work/cleancrm/modal-warning.jpg" alt="modal-warning"/></div><div class="col-xs-12 col-md-12"><img src="/img/work/cleancrm/edit-information.jpg" alt="modal-warning"/></div><div class="col-xs-12 col-md-12"><img src="/img/work/cleancrm/modals-2.jpg" alt="Modals"/></div></div></div></div></div></div></article><article role="article" class="margin-top-25"><hr/><div class="container margin-top-25"><div class="row"><div class="col-md-3"><h2 class="section-title">DESIGN LANGUAGE</h2></div><div class="col-md-9"><p></p><p>I helped introducing a new design lenguage to make their product easier to navigate and find information. I created a UI Library and design system to make it easier for designers and developers to continue the work after I leave so they can continue working on the platform without having to worry about getting off track.</p><div class="row"><div class="col-xs-12 col-md-12"><img src="/img/work/cleancrm/component-3.jpg" alt="component"/></div></div></div></div></div></article><article role="article" class="margin-top-25"><hr/><div class="container margin-top-25"><div class="row"><div class="col-md-3"><h2 class="section-title">File structure</h2></div><div class="col-md-9"><p></p><p>Getting proper organization on your files and naming conventions help you to keep sanity on your projects.</p></div></div><div class="row"><div class="col-xs-12 col-md-12"><img src="/img/work/cleancrm/sketch-screenshot.jpg" alt="component" class="shadow-1"/></div></div></div></article><article role="article"><hr/><div class="container margin-top-25"><div class="row"><div class="col-md-3"><h2 class="section-title">INTERFACE</h2></div><div class="col-md-9"><p></p><p>The platform helps keeping track of potential and current customers, everything while giving them feedback on the health of the business at a glance.</p></div></div><div class="row"><div class="col-xs-12 col-md-7"><img src="/img/work/cleancrm/1-2-4_Dashboard-Home-Recurring-Remove-Payment.jpg" alt="Recurring payments Dash" class="shadow-1"/></div><div class="col-xs-12 col-md-5"><img src="/img/work/cleancrm/3-3-1_Notes_Booking-Upcoming-Points.jpg" alt="Booking_Notes" class="shadow-1"/></div><div class="col-xs-12 col-md-5"><img src="/img/work/cleancrm/4-2-4_Quotes-Expanded-Notification_Box.jpg" alt="Quotes_Notes" class="shadow-1"/></div></div></div></article><article role="article"><hr/><div class="container margin-top-25"><div class="row"><div class="col-md-3"><h2 class="section-title">RESULTS</h2></div><div class="col-md-9"><p></p><p>The client was really happy and we were dog fooding a beta with plans to transform the product into a Sass company. </p><p>There are three things I think will have the most impact on my ongoing career and process:</p><h2></h2><p class="bold">Planning and management</p><p>I learned a lot about how to manage design sprints and the expectations at the end of them.  </p><p class="bold">Exploring from early on the project</p><p>Every project is different, and the process most adjusts to resources, timeline, and constraints.</p><p class="bold">Deep research and understanding of the business</p><p>Getting to understand the business pains from top to bottom is crucial if you plan to offer solutions to that. Get and clean for a few days if that's necessary.</p></div></div></div></article><section role="main" id="work-section"><div class="container"><div class="row"><div class="col-md-6 col-xs-8"><h2 class="section-title">SEE MORE PROJECTS</h2></div></div></div><hr/><div class="container"><div class="row"><div class="col-xs-6 col-sm-6 col-md-3 col-md-offset-3 work"><a href="{{site.baseurl}}/work/condominium" class="no-link"><div class="project-image"><img src="{{site.baseurl}}/img/preview/work-preview/work_preview-condominium.jpg" alt="Condominium" class="project-photo"/></div><div class="tags"><div class="tag">Frontend</div><div class="tag">Product Design</div></div><div class="project-text"><p class="no-link">Designed Lead the UI development of a new application for condominium managers and tenants.</p><a href="{{site.baseurl}}/work/condominium" class="project-description color-6 text-underline-1 color-3">See case study</a></div></a></div><div class="col-xs-6 col-sm-6 col-md-3 work"><a href="https://www.starklabs.io/" target="_blank" class="no-link"><div class="project-image"><img src="{{site.baseurl}}/img/preview/work-preview/work_preview-stark.jpg" alt="stark" class="project-photo"/></div><div class="tags"><div class="tag">Illustration</div><div class="tag">Design</div><div class="tag">Dev.</div></div><div class="project-text"><p class="no-link">Developed, illustrated and designed the marketing site for a new Chatbot/Ai development agency.</p><a href="https://www.starklabs.io/" class="project-description color-6 text-underline-1 color-3">Visit site</a></div></a></div><div class="col-xs-6 col-sm-6 col-md-3 work"><a href="{{site.baseurl}}/work/webpack" class="no-link"><div class="project-image"><img src="{{site.baseurl}}/img/preview/work-preview/work_preview-webpack.jpg" alt="webpack" class="project-photo"/></div><div class="tags"><div class="tag">Design</div><div class="tag">Branding</div></div><div class="project-text"><p class="no-link">Designing the marketing and brand of an Open Source plugin for the most popular front-end bundle.</p><a href="{{site.baseurl}}/work/webpack" class="project-description color-6 text-underline-1 color-3">See case study</a></div></a></div></div></div></section>
